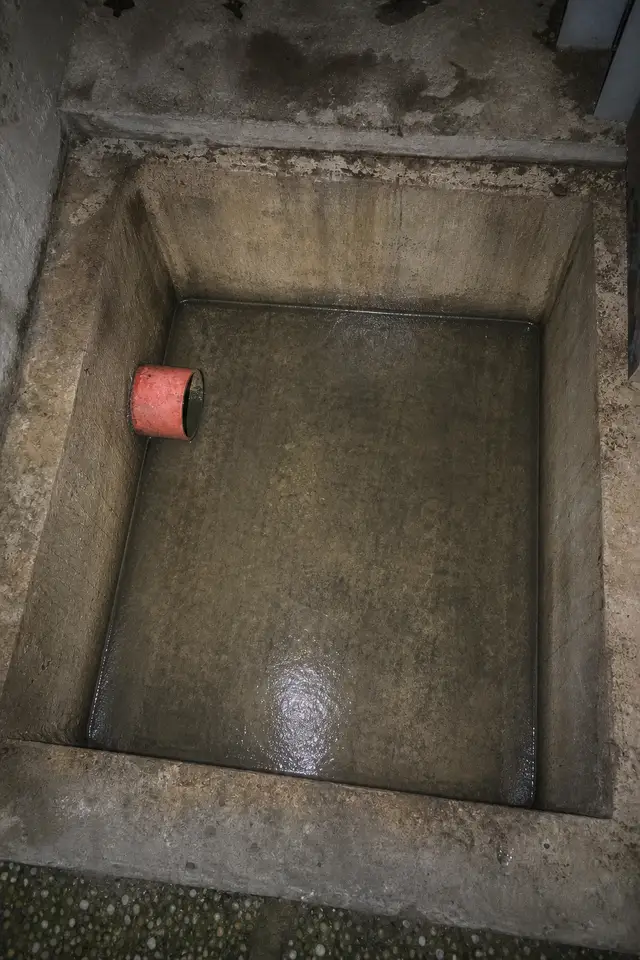
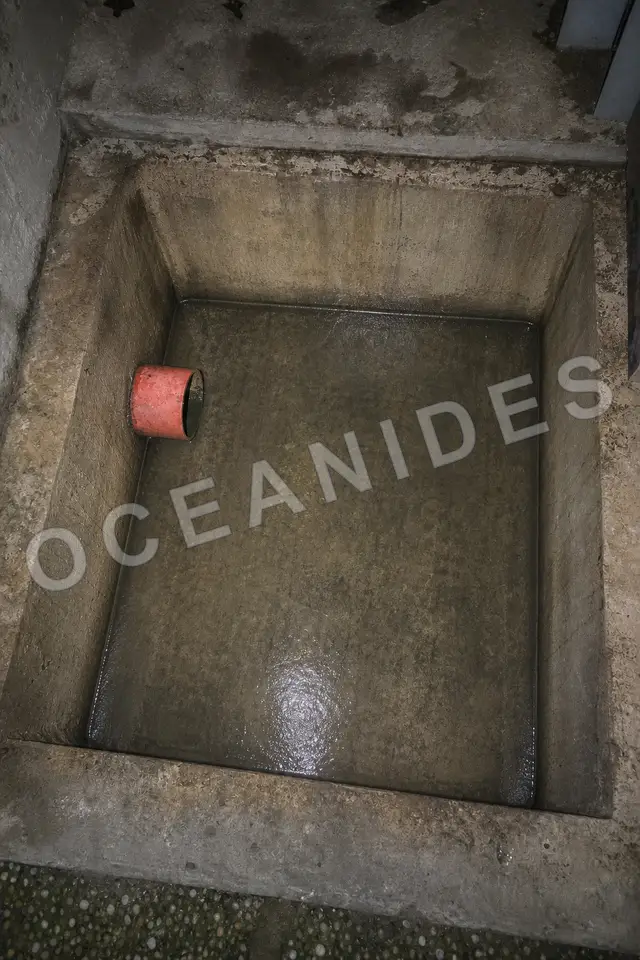
feat(oceanides): ticket de-collision, marquee wordmarks, DENR cert FAQ, semento fix, watermarks
Mga sagot at koreksyon ni Neil 2026-08-01 (remote review habang foot spa):

- TICKET: tanggal ang "4,000 litro" sa lead line — dalawang malaking numero
  (4k/5k) ang nagbabanggaan sa mabilis na tingin. Isang numero na lang ang
  ticket: ang presyo. Bagong dim sub-line: "Kasama na ang standard na hose
  ng truck" (totoo, at pre-answer pa sa hose add-on).
- MARQUEE: unboxed na malalaking wordmark-style names + amber diamond
  separators, hindi na boxed chips (plain ang dating, sabi ni Neil). D07
  Stripe evidence: malaki at tahimik = endorsement; nakakahon at maliit =
  UI tag.
- FAQ + BUSINESS FACT: DENR Certificate of Treatment = hiwalay na serbisyo,
  HINDI kasama sa P5,000 — P12,000 residential / P15,000 company (Neil).
  Bagong FAQ item; refinement din sa workflows/oceanides_business_model.md.
- SEMENTO FIX: mali ang dating "kasama na ang semento" sa bakbak — customer
  ang magbibigay ng semento; kung Oceanides ang magdadala, dagdag P500;
  pwede ring ipagawa sa iba ang pagsasara. Ayon kay Neil, verbatim ang mga
  presyo.
- SEC Registered ang chip at proof line (dating SEC-rehistrado).
- WATERMARKS: OCEANIDES diagonal na nakapaso mismo sa webp ng lahat ng
  proof/fleet/Gabriel photos via build-assets.mjs (CSS overlay ay hindi
  kasama pag na-save ang file). 30% white + navy stroke, sukat mula sa
  totoong post-resize dimensions. Provenance ng tb2 before/after pairs:
  RESOLVED — kinumpirma ni Neil na totoong litrato ("totoo yan"); updated
[…]

diff --git a/funnels/oceanides-price-page/src/funnel.config.ts b/funnels/oceanides-price-page/src/funnel.config.ts
@@ -177,7 +177,13 @@ export const funnelConfig: FunnelConfig = {
         // parang claim. Yun ang buong punto ng page.
         ticket: {
           tab: 'Nakasulat na presyo',
-          lead: { label: 'Isang truckload, 4,000 litro', amount: '₱5,000' },
+          // Walang "4,000 litro" dito — nasa subhead na yun. Isang numero lang
+          // ang ticket: ang presyo (Neil, 2026-08-01).
+          lead: {
+            label: 'Isang truckload na siphoning',
+            sub: 'Kasama na ang standard na hose ng truck',
+            amount: '₱5,000',
+          },
           addOnsLabel: 'Kung kailangan lang:',
           addOns: [
             { label: 'Sobrang hose, kada 3 metro', amount: '₱100' },
@@ -189,7 +195,7 @@ export const funnelConfig: FunnelConfig = {
         // Ang papeles, hinila sa fold. Teksto, hindi seal: ang badge artwork ay
         // maling DENR region, at ang maling seal sa trust page ay mas masama
         // kaysa sa walang seal.
-        trustChips: ['SEC-rehistrado', 'BIR official receipt', 'DENR-partner na tapunan'],
+        trustChips: ['SEC Registered', 'BIR official receipt', 'DENR-partner na tapunan'],
       },
     },
 
@@ -214,7 +220,7 @@ export const funnelConfig: FunnelConfig = {
         // (walang "1,247"): ang pekeng katiyakan ang unang bagay na sinusuri ng
         // tao sa trust page. Kapag may naibigay na si Boss Jay na eksaktong
         // bilang na may talaan, palitan to ng bilang na yun.
-        line: 'Mahigit 1,000 na tangke na ang naserbisyuhan namin sa Metro Manila. SEC-rehistrado. May BIR official receipt. DENR-partner na tapunan. Ito ang mga papel na hindi kayang ibigay ng karaniwang siphoner.',
+        line: 'Mahigit 1,000 na tangke na ang naserbisyuhan namin sa Metro Manila. SEC Registered. May BIR official receipt. DENR-partner na tapunan. Ito ang mga papel na hindi kayang ibigay ng karaniwang siphoner.',
         // TOTOONG numero, galing kay Neil 2026-08-01, verbatim — walang binago
         // sa format. DP5: mas malakas ang tiyak na numero kaysa hiram na seal;
         // kahit sino pwedeng mag-verify. SEC Reg. No. = TO FOLLOW pa kay Neil,
@@ -293,7 +299,10 @@ export const funnelConfig: FunnelConfig = {
         body: [
           'Lahat ng siphoner may ganitong singil. ==Kami lang ang naglalagay nito sa page bago ka pa mag-book.==',
           'Sobrang hose, ₱100 kada 3 metrong dagdag. Kapag malayo ang mapaparadahan ng truck sa tangke nyo.',
-          'Bakbak ng takip, ₱500 hanggang ₱1,000. Kapag nakasarado ang tangke at kailangang buksan. Kasama na ang semento at ang pagsasara ulit pagkatapos.',
+          // ⚠ HINDI kasama ang semento (Neil, 2026-08-01 — mali ang dating
+          // "kasama na ang semento"): customer ang magbibigay; kung Oceanides
+          // ang magdadala, dagdag ₱500; pwede rin nilang ipagawa sa iba.
+          'Bakbak ng takip, ₱500 hanggang ₱1,000. Kapag nakasarado ang tangke at kailangang buksan. Kasama ang pagsasara ulit, pero kayo ang magbibigay ng semento. Kung kami ang magdadala ng semento, dagdag na ₱500. Kung ayaw nyo ng dagdag, pwede nyong ipagawa ang pagsasara sa ibang marunong.',
           'Pangalawang truckload, ₱5,000 ulit. Kapag hindi kasya sa isa ang laman ng tangke nyo. Sasabihin namin bago pa namin simulan ang pangalawa, hindi pagkatapos.',
           'Yun lang. Wala nang iba. At sasabihin namin bago kami magsimula, hindi habang ginagawa.',
         ],
@@ -405,6 +414,16 @@ export const funnelConfig: FunnelConfig = {
           {
             q: 'Ano ang sakop ng 30-day warranty?',
             a: 'Ang bara. Kapag bumalik ang bara sa loob ng 30 araw, babalikan namin. Ang hindi sakop ay kung mapuno ulit ang tangke, kasi nakadepende yun sa dami ng gumagamit. Ang kainan, hotel, o apartment na maraming tao ay mas mabilis talagang mapuno kaysa sa bahay, at hindi yun depekto ng trabaho. Kaya kinukunan namin ng before at after na litrato ang tank nyo, para may makita kayo at hindi basta salita lang.',
+          },
+          // DENR Certificate of Treatment = HIWALAY na serbisyo, hindi kasama
+          // sa ₱5,000 (Neil, 2026-08-01): ₱12,000 residential / ₱15,000
+          // company. Nasa workflows/oceanides_business_model.md ang margin
+          // math — ito ang B2B moat. FAQ ang tamang bahay nya (F05 evidence:
+          // presyo sa loob ng FAQ pagkatapos ng value stack), hindi ang
+          // ticket — ang ticket ay singil ng siphoning job lang.
+          {
+            q: 'Kailangan ko ng DENR Certificate of Treatment. Meron ba kayo?',
+            a: 'Meron. Dagdag na serbisyo yun: ₱12,000 para sa bahay, ₱15,000 para sa negosyo o company. Ito yung opisyal na papel na nagpapatunay na dinala sa DENR-partner na tapunan ang laman ng tangke nyo. Madalas hinihingi to ng building admin, ng barangay, o para sa permit. Ang karaniwang siphoner, hindi makakapagbigay nyan. Sabihin nyo lang sa tawag kung kailangan nyo.',
           },
           {
             q: 'Saan kayo pwede pumunta?',

diff --git a/funnels/oceanides-price-page/src/sections/ClientsMarquee.tsx b/funnels/oceanides-price-page/src/sections/ClientsMarquee.tsx
@@ -28,15 +28,22 @@ export const ClientsMarquee: React.FC<PropsOf<'clientsMarquee'>> = ({ label, nam
   // The list is rendered TWICE. The first copy is the content; the second is
   // purely the mechanism that makes the loop seamless, so it is hidden from
   // assistive tech and dropped entirely under prefers-reduced-motion.
+  // Open wordmark treatment, hindi boxed chips (Neil, 2026-08-01 — plain ang
+  // dating ng chips). Ang D07 Stripe logo bar ang ebidensya: ang malaki at
+  // TAHIMIK na marka ang mukhang endorsement; ang naka-kahon na maliit na text
+  // ay mukhang UI tag. Kaya: malaking Inter 800 na pangalan, amber diamond na
+  // separator, walang border. Ang laki mismo ang trust device.
   const row = (hidden: boolean) => (
-    <div className="marquee__row" aria-hidden={hidden || undefined}>
+    <div className="marquee__row items-baseline" aria-hidden={hidden || undefined}>
       {names.map((name) => (
-        <span
-          key={name}
-          className="mr-3 whitespace-nowrap rounded-[4px] border border-white/25 px-4 py-2 text-[13px] font-bold text-brand-on-surface"
-        >
-          {name}
-        </span>
+        <React.Fragment key={name}>
+          <span className="whitespace-nowrap text-lg font-extrabold tracking-wide text-brand-on-surface md:text-xl">
+            {name}
+          </span>
+          <span aria-hidden className="mx-5 text-[9px] text-brand-primary md:mx-7">
+            ◆
+          </span>
+        </React.Fragment>
       ))}
     </div>
   );

diff --git a/funnels/oceanides-price-page/src/config.types.ts b/funnels/oceanides-price-page/src/config.types.ts
@@ -99,8 +99,12 @@ export type Ground = 'navy' | 'navy-deep' | 'navy-gradient' | 'paper' | 'void';
 export interface PriceTicketData {
   /** Amber tab pinned over the ticket's top edge. */
   tab: string;
-  /** The headline line item — the one number the page exists to state. */
-  lead: { label: string; amount: string };
+  /** The headline line item — the one number the page exists to state.
+   *  `sub` is a small dim line under the label. WALANG numero dito: ang
+   *  "4,000 litro" katabi ng "₱5,000" ay dalawang malaking numero na
+   *  nagbabanggaan sa mabilis na tingin (Neil, 2026-08-01 — "may 4k tapos
+   *  5k, ang gulo"). Isang numero lang ang ticket: ang presyo. */
+  lead: { label: string; sub?: string; amount: string };
   /** Row label above the conditional charges, e.g. "Kung kailangan lang:". */
   addOnsLabel: string;
   /** The charges other siphoners hide. Printing them IS the offer. */

diff --git a/funnels/oceanides-price-page/src/primitives/PriceTicket.tsx b/funnels/oceanides-price-page/src/primitives/PriceTicket.tsx
@@ -37,7 +37,14 @@ export const PriceTicket: React.FC<PriceTicketData> = ({ tab, lead, addOnsLabel,
     <EyebrowChip className="absolute -top-3 left-5">{tab}</EyebrowChip>
 
     <div className="flex items-baseline justify-between gap-4">
-      <span className="text-sm font-bold leading-snug text-brand-on-surface md:text-base">{lead.label}</span>
+      <span className="text-sm font-bold leading-snug text-brand-on-surface md:text-base">
+        {lead.label}
+        {lead.sub && (
+          <span className="mt-1 block text-xs font-normal leading-snug text-brand-on-surface-dim">
+            {lead.sub}
+          </span>
+        )}
+      </span>
       <span className={`${AMOUNT} font-display text-[2rem] leading-none tracking-[0.5px] md:text-[2.5rem]`}>
         {lead.amount}
       </span>

diff --git a/workflows/oceanides_business_model.md b/workflows/oceanides_business_model.md
@@ -19,6 +19,12 @@
 |---|---|---|---|---|
 | Siphoning, walang cert (residential) | ₱4,000/load, 30-day warranty | ₱2,500–3,000/load sa crew | **~₱1,000–1,500/load** | 1 load = 4 cubic / 4,000 L |
 | Siphoning + DENR certificate (companies) | ₱12,000–15,000/load (tatawad si client) | same crew cost | **~₱9,000–12,000/load** | Mostly companies, minimum 5–10 loads bawat avail |
+
+> **Refinement (Neil, 2026-08-01):** ang DENR Certificate of Treatment ay ini-issue lang sa
+> mga willing magdagdag — **₱12,000 kapag residential, ₱15,000 kapag company.** Nasa FAQ na
+> ng price page bilang hiwalay na serbisyo (hindi kasama sa ₱5,000). Dagdag din: sa bakbak
+> ng takip (₱500–1,000), **customer ang nagbibigay ng semento** — kung Oceanides ang
+> magdadala, dagdag ₱500; pwede ring ipagawa ng customer ang pagsasara sa iba.
 | Lusong / manual cleaning | ₱15,000–50,000+ (laki/dami ng tank) | 30% sa crew | **70% sa company** | Pinakamataas na absolute margin |
 
 Rule of thumb: **1 certified B2B load ≈ 7–8 residential loads** ang gross profit;
